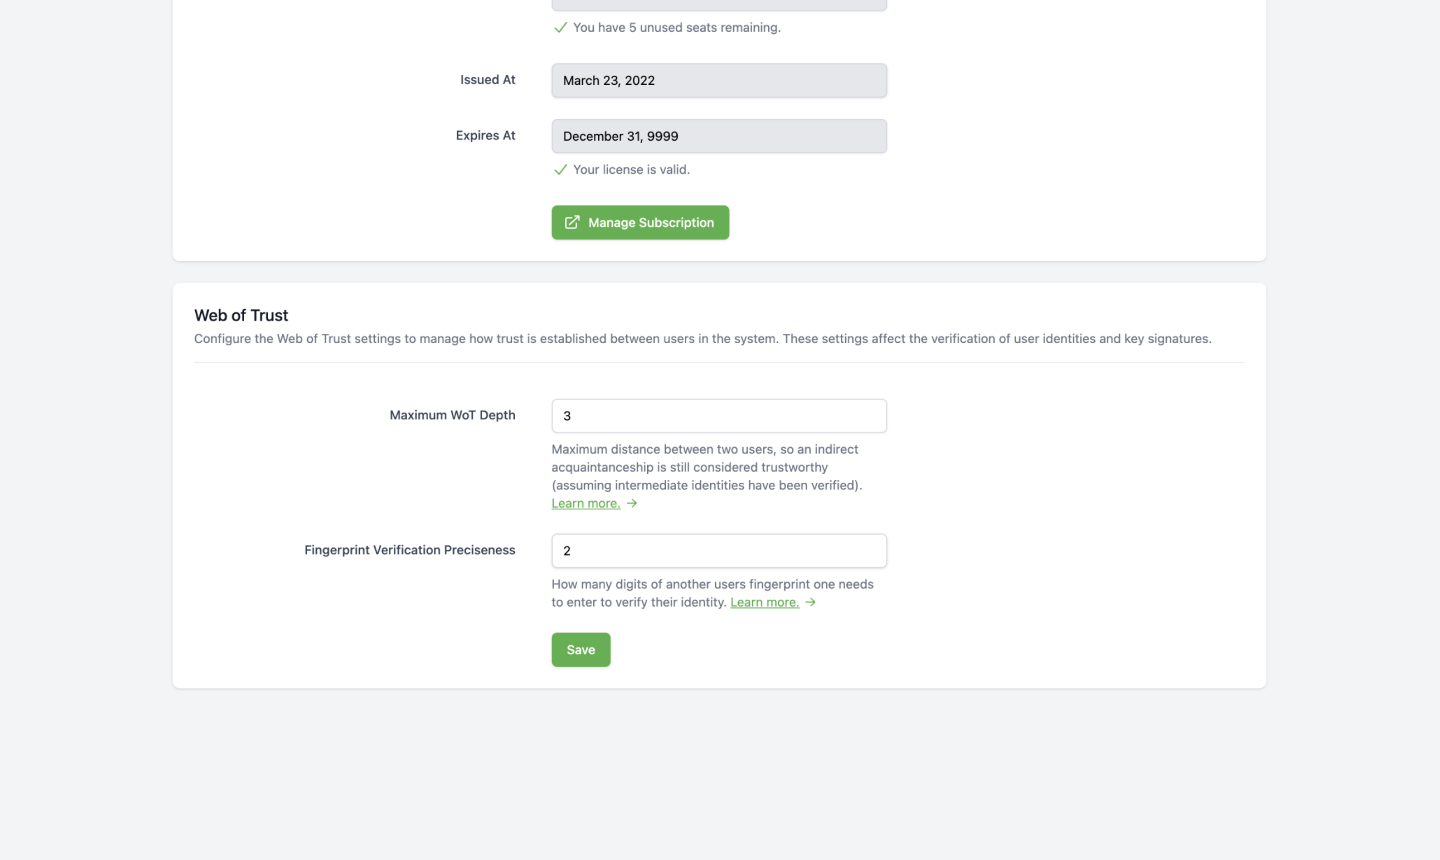
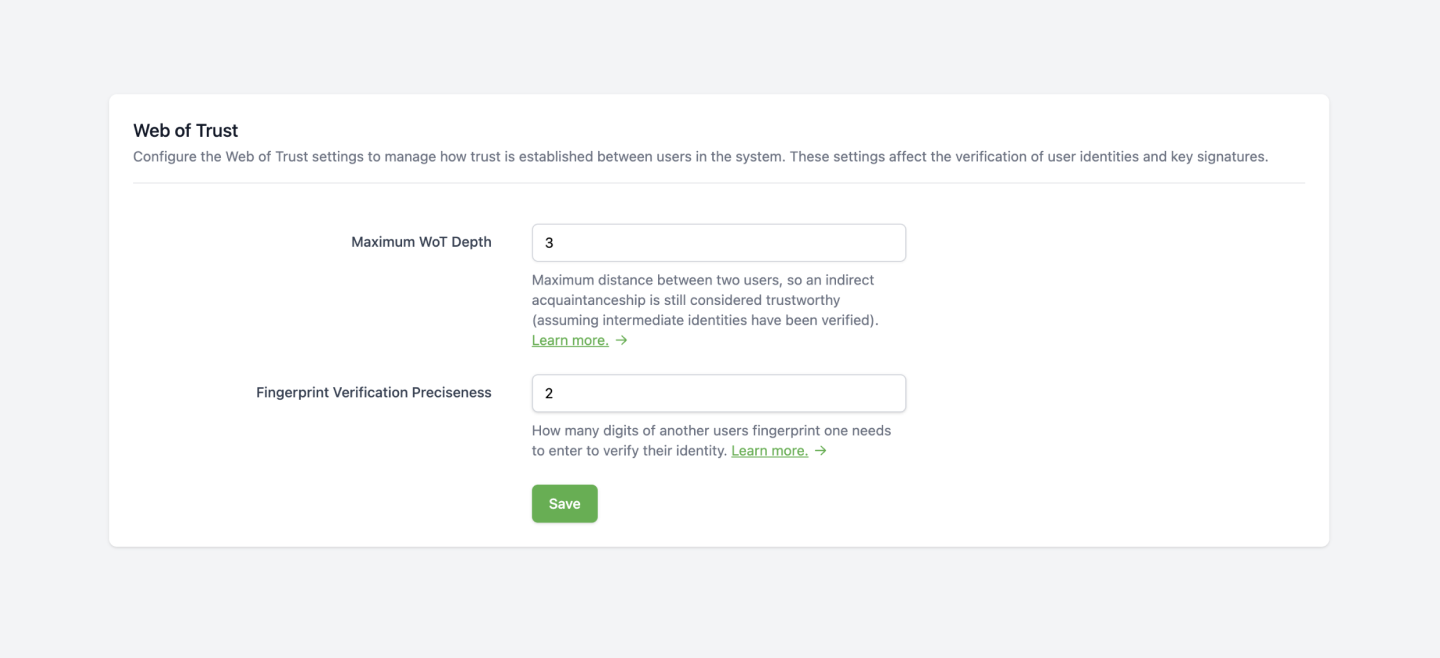
Updated multiple admin paths, added missing 'license' prefix, and refreshed screenshots

diff --git a/source/hub/admin.rst b/source/hub/admin.rst
@@ -18,7 +18,7 @@ As an Hub administrator, you can view license information in the administration 
     :alt: Administration area
 
 
-.. _hub/admin/seat:
+.. _hub/admin/license/seat:
 
 What is a Seat?
 ^^^^^^^^^^^^^^^
@@ -34,7 +34,7 @@ Note that:
 .. note:: Enterprise licenses can have an unlimited number of seats. Visit `cryptomator.org <https://cryptomator.org/hub/>`_ for more information.
 
 
-.. _hub/admin/community-license:
+.. _hub/admin/license/community-license:
 
 Community License
 ^^^^^^^^^^^^^^^^^
@@ -42,7 +42,7 @@ Community License
 When you deploy Cryptomator Hub by yourself, it comes with a community license with life-long validity and 5 seats.
 
 
-.. _hub/admin/buy-license:
+.. _hub/admin/license/buy-license:
 
 Updating your License
 ^^^^^^^^^^^^^^^^^^^^^
@@ -144,6 +144,8 @@ WoT also supports transitive trust, meaning if Alice trusts Bob, and Bob trusts 
 
 .. image:: ../img/hub/wot-admin.png
     :alt: Audit Log Filtering Options
+
+**In the administration area, administrators can configure the following trust settings:**
 
 The maximum depth of such chains can be configured using the **Maximum WoT Depth** property:
 

diff --git a/source/hub/introduction.rst b/source/hub/introduction.rst
@@ -21,7 +21,7 @@ If you are…
 …an **administrator**:
 
 * :ref:`User & Group management <hub/user-group-management>` - how to manage users and groups.
-* :ref:`License <hub/admin>` - how to manage your Hub license.
+* :ref:`License <hub/admin/license>` - how to manage your Hub license.
 * :ref:`Deployment <hub/deployment>` - how to deploy Cryptomator Hub.
 
 …a **user**:
